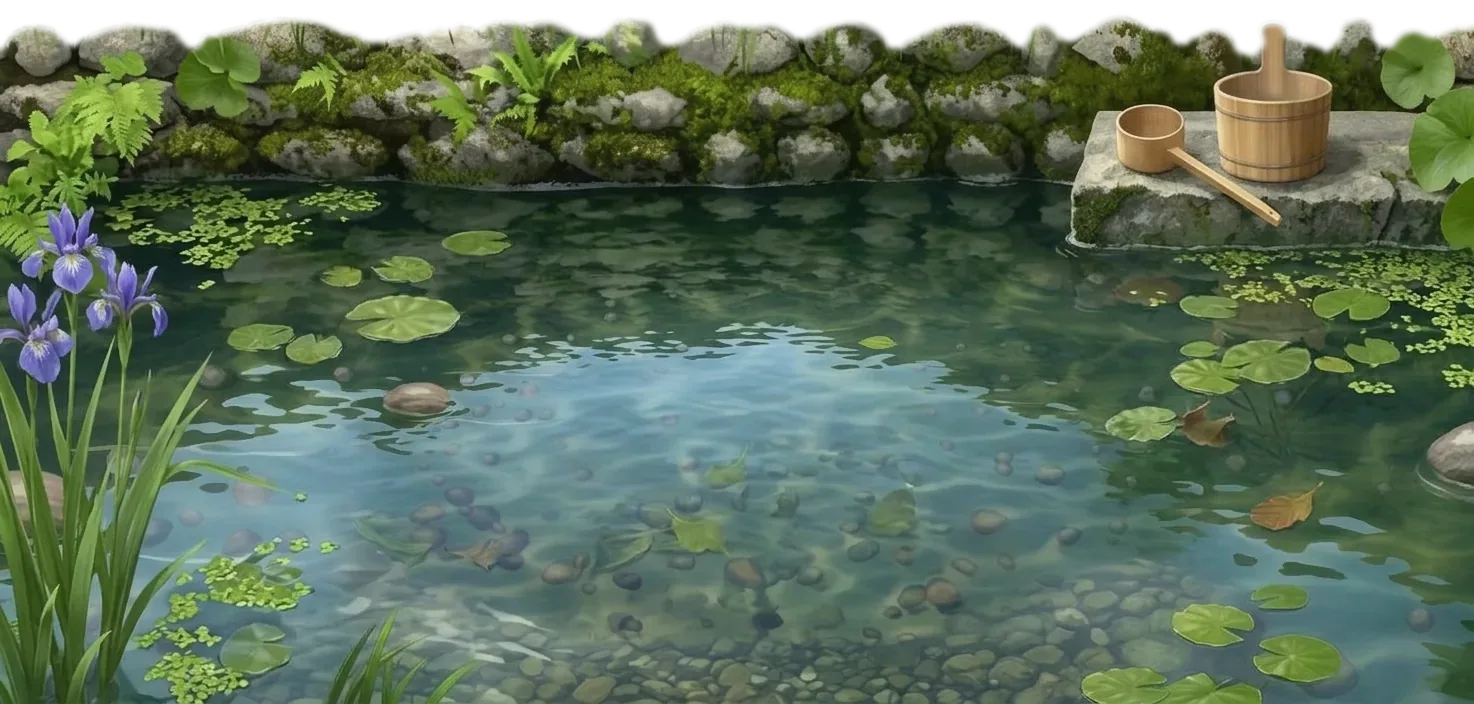
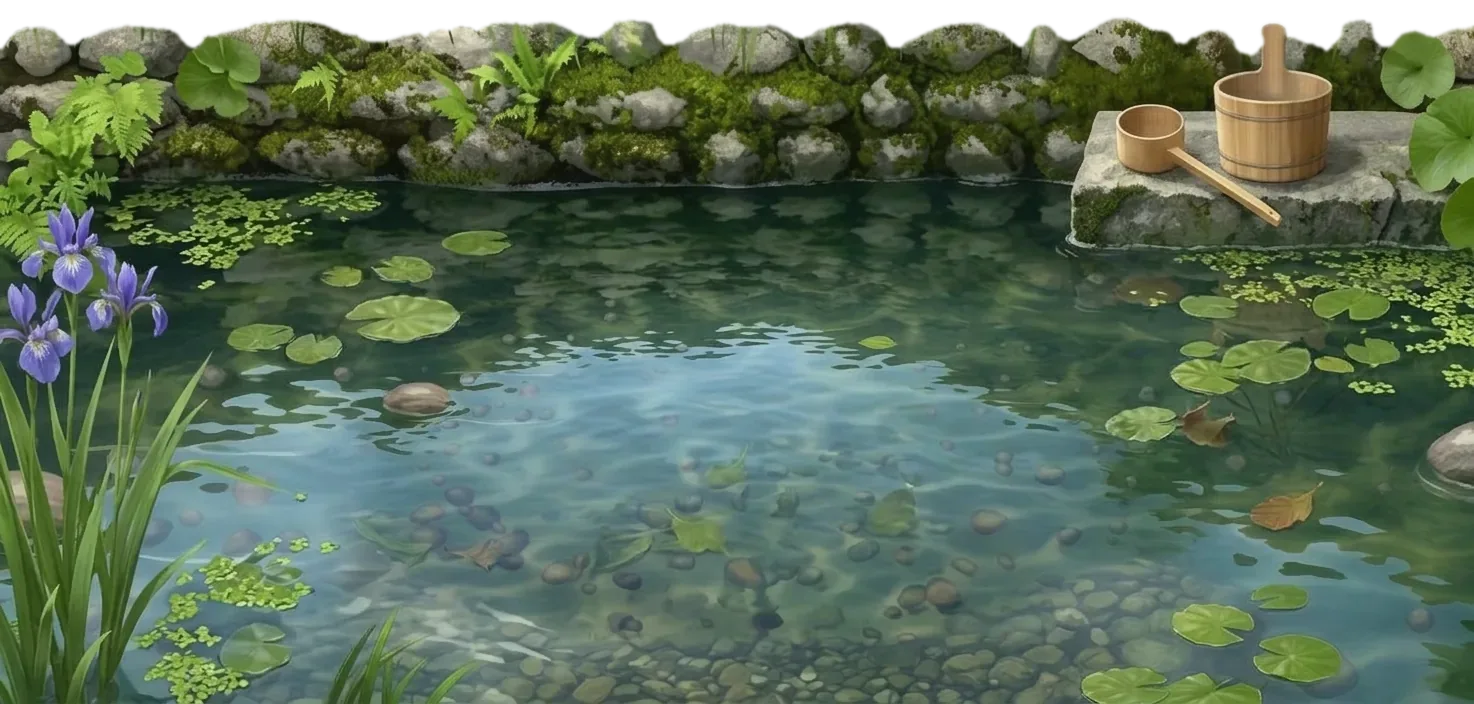
収穫かごに光を当てて明るく見せ、つなぎ目と籠の輪郭を整える
- 洗い場の上端のぼかしと霞を弱めて、つなぎ目の不自然さを抑える
- 籠の上から暖かい光を当て、水面にも光だまりを置き、周囲を少し落として籠を引き立てる
- 籠の輪郭を背景と同じくらいにぼかし、籠と野菜の明るさを戻す

Changed region(s): [[0.3121, 0.0312, 0.905, 0.0938], [0.0, 0.0312, 0.2809, 0.0938], [0.905, 0.0312, 1.0, 0.0625]]

diff --git a/front-end/src/pages/HarvestBasket.css b/front-end/src/pages/HarvestBasket.css
@@ -61,7 +61,7 @@
   height: 18%;
   z-index: -1;
   pointer-events: none;
-  background: linear-gradient(to bottom, rgba(214, 226, 196, 0), rgba(214, 226, 196, 0.4) 60%, rgba(214, 226, 196, 0.25) 85%, rgba(214, 226, 196, 0));
+  background: linear-gradient(to bottom, rgba(214, 226, 196, 0), rgba(214, 226, 196, 0.22) 60%, rgba(214, 226, 196, 0.12) 85%, rgba(214, 226, 196, 0));
 }
 
 @media (max-width: 700px) {
@@ -86,7 +86,7 @@
   inset: 0;
   z-index: 1;
   pointer-events: none;
-  background: radial-gradient(150% 110% at 50% 45%, transparent 55%, rgba(16, 38, 34, 0.38));
+  background: radial-gradient(120% 95% at 50% 62%, transparent 42%, rgba(16, 38, 34, 0.5));
 }
 
 .basket-scene-light::before {
@@ -312,7 +312,7 @@
   height: 100%;
   object-fit: contain;
   z-index: 10;
-  filter: saturate(0.76) contrast(0.86) sepia(0.18) brightness(0.86) blur(0.3px);
+  filter: saturate(0.8) contrast(0.86) sepia(0.16) brightness(1) blur(0.75px);
 }
 
 .basket-layer-front {
@@ -324,7 +324,7 @@
   object-fit: contain;
   z-index: 10000;
   pointer-events: none;
-  filter: saturate(0.76) contrast(0.86) sepia(0.18) brightness(0.86) blur(0.3px);
+  filter: saturate(0.8) contrast(0.86) sepia(0.16) brightness(1) blur(0.75px);
 }
 
 .basket-shade {
@@ -388,7 +388,7 @@
   cursor: grab;
   transform-origin: bottom center;
   transform: translate(-50%, -100%) rotate(var(--veg-rotation));
-  filter: saturate(0.8) contrast(0.86) sepia(0.14) brightness(0.86) blur(0.3px) drop-shadow(0.35vmin 0.6vmin 0.5vmin rgba(30, 26, 12, 0.55));
+  filter: saturate(0.84) contrast(0.88) sepia(0.12) brightness(0.96) blur(0.45px) drop-shadow(0.35vmin 0.6vmin 0.5vmin rgba(30, 26, 12, 0.55));
   transition: transform 0.2s cubic-bezier(0.175, 0.885, 0.32, 1.275), filter 0.2s;
 }
 
@@ -400,12 +400,57 @@
   cursor: grabbing;
   transition: none;
   transform: translate(-50%, calc(-100% - 2%)) rotate(var(--veg-rotation)) scale(1.1);
-  filter: saturate(0.8) contrast(0.86) sepia(0.14) brightness(0.92) blur(0.3px) drop-shadow(1.2vmin 2.4vmin 1.4vmin rgba(30, 26, 12, 0.35));
+  filter: saturate(0.84) contrast(0.88) sepia(0.12) brightness(1) blur(0.45px) drop-shadow(1.2vmin 2.4vmin 1.4vmin rgba(30, 26, 12, 0.35));
 }
 
 @media (prefers-reduced-motion: reduce) {
   .basket-veg-item {
     transition: none;
+  }
+}
+
+.basket-glow {
+  position: absolute;
+  pointer-events: none;
+  border-radius: 50%;
+}
+
+.basket-glow-pool {
+  left: -6%;
+  right: -6%;
+  top: 22%;
+  bottom: -4%;
+  z-index: 4;
+  background: radial-gradient(closest-side, rgba(255, 240, 200, 0.5), rgba(255, 240, 200, 0.18) 55%, rgba(255, 240, 200, 0));
+  mix-blend-mode: screen;
+}
+
+.basket-glow-key {
+  left: 4%;
+  right: 4%;
+  top: -12%;
+  bottom: 18%;
+  z-index: 10004;
+  background: radial-gradient(closest-side at 46% 52%, rgba(255, 234, 186, 0.26), rgba(255, 234, 186, 0.1) 60%, rgba(255, 234, 186, 0));
+  mix-blend-mode: screen;
+}
+
+@keyframes basket-glow-breathe {
+  0%, 100% {
+    opacity: 0.85;
+  }
+  50% {
+    opacity: 1;
+  }
+}
+
+.basket-glow-key {
+  animation: basket-glow-breathe 8s ease-in-out infinite;
+}
+
+@media (prefers-reduced-motion: reduce) {
+  .basket-glow-key {
+    animation: none;
   }
 }
 

diff --git a/front-end/src/pages/HarvestBasket.tsx b/front-end/src/pages/HarvestBasket.tsx
@@ -325,6 +325,7 @@ const HarvestBasket: React.FC = () => {
 
         <div className="basket-pool">
           <div className="basket-stage">
+            <div className="basket-glow basket-glow-pool" aria-hidden="true" />
             <div className="basket-water" aria-hidden="true">
               <span className="basket-ripple" />
               <span className="basket-ripple" />
@@ -378,6 +379,7 @@ const HarvestBasket: React.FC = () => {
             <div className="basket-shade basket-shade-front" aria-hidden="true" />
             <div className="basket-submerge" aria-hidden="true" />
             <div className="basket-waterline" aria-hidden="true" />
+            <div className="basket-glow basket-glow-key" aria-hidden="true" />
             <div className="basket-water basket-water-front" aria-hidden="true">
               <span className="basket-ripple" />
               <span className="basket-ripple" />
